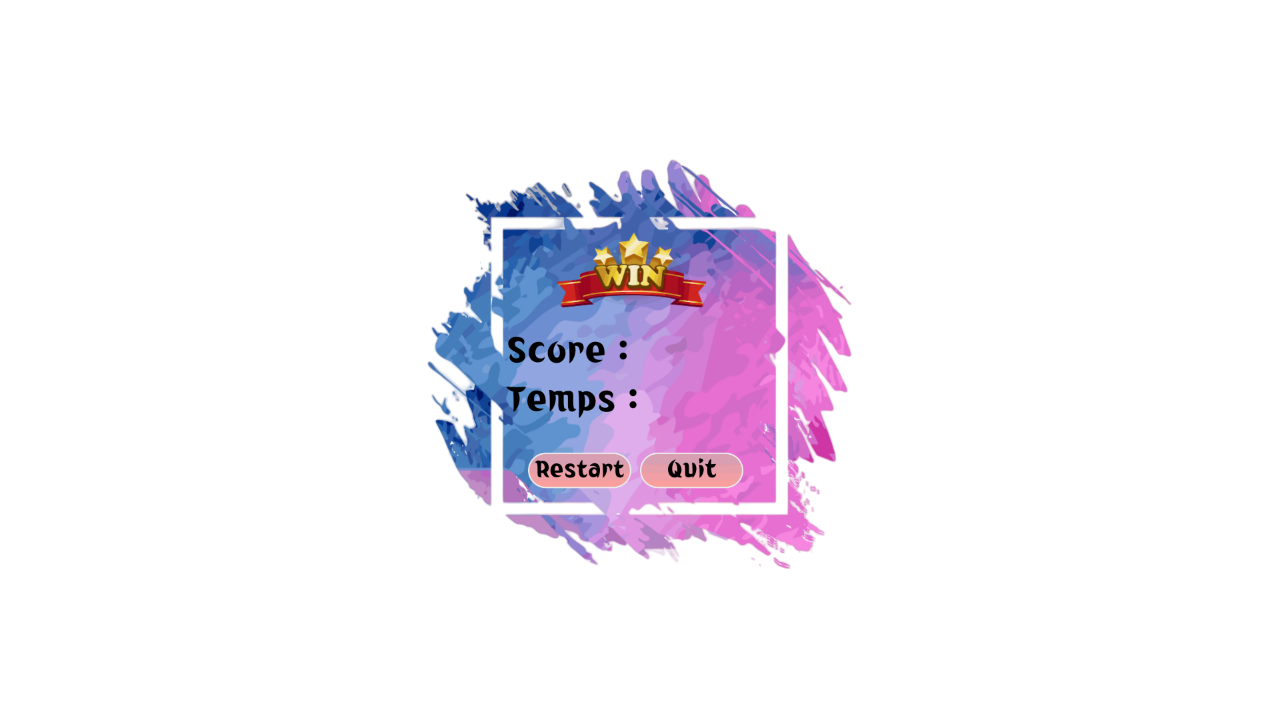
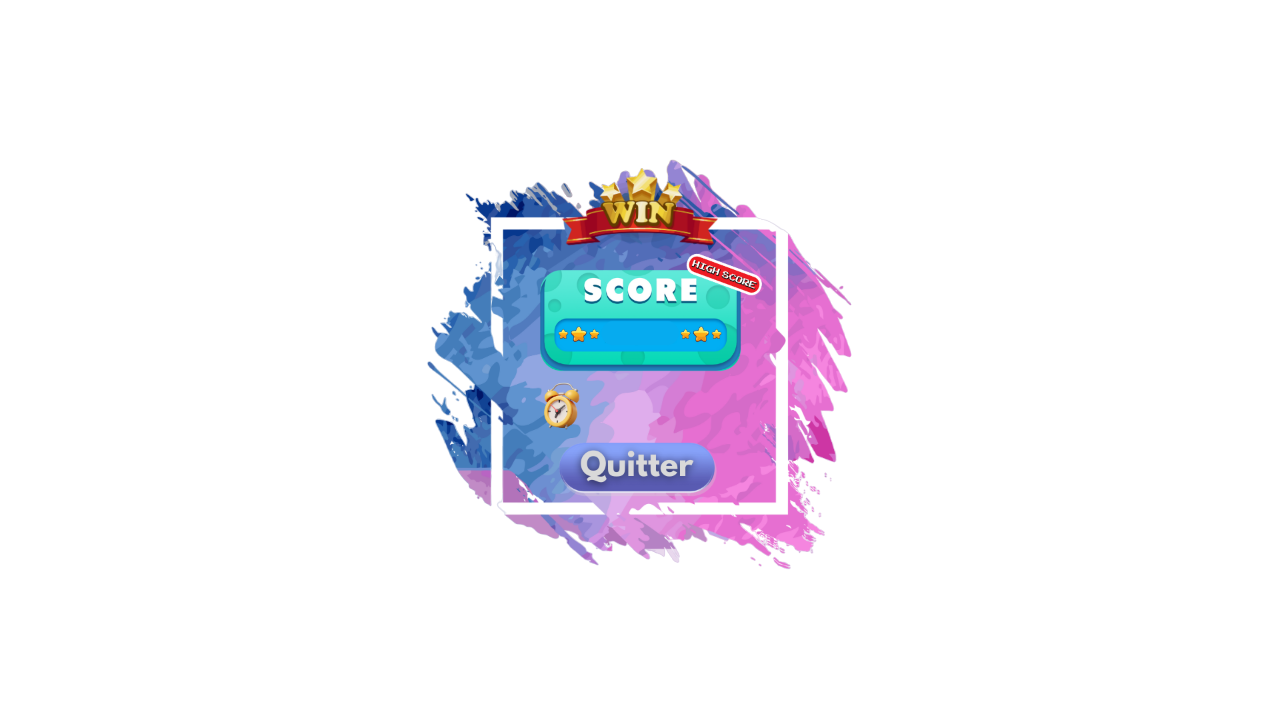
amélioration_écran_fin

Changed region(s): [[0.3438, 0.2444, 0.5938, 0.7028]]

diff --git a/Snake_1.0/fond.c b/Snake_1.0/fond.c
@@ -45,7 +45,7 @@ void dessinerScore() {
 
 void AfficherEcranDefaite() {
   int imageChargee;
-  imageChargee = ChargerImage("image/defaite.xpm", (LARGEUR_FENETRE - 1300) / 2, (HAUTEUR_FENETRE - 900) / 2, 0, 0, 1000, 1000);
+  imageChargee = ChargerImage("image/defaite.png", (LARGEUR_FENETRE - 1300) / 2, (HAUTEUR_FENETRE - 900) / 2, 0, 0, 1000, 1000);
     AfficherFenetre();
 }
 
@@ -55,7 +55,7 @@ void dessinerScoreFin() {
 
   /* Affichage du score en bas à droite */
   ChoisirCouleurDessin(CouleurParComposante(0, 0, 0)); /* Couleur du texte pour le score */
-  EcrireTexte(LARGEUR_FENETRE - 810, HAUTEUR_FENETRE - 590, scoreString, 2);
+  EcrireTexte(LARGEUR_FENETRE - 832, HAUTEUR_FENETRE - 605, scoreString, 2);
 }
 
 void dessinerTempsFinal(unsigned long tempsEcoule) {    
@@ -70,16 +70,6 @@ void dessinerTempsFinal(unsigned long tempsEcoule) {
   snprintf(tempsString, sizeof(tempsString), "%02lu:%02lu", minutes, secondes);  
   
   ChoisirCouleurDessin(CouleurParComposante(0, 0, 0)); /* Couleur du texte pour le temps final */
-  EcrireTexte(LARGEUR_FENETRE - 805, HAUTEUR_FENETRE - 540, tempsString, 2);
+  EcrireTexte(LARGEUR_FENETRE - 860, HAUTEUR_FENETRE - 530, tempsString, 2);
 }
 
-/*
-void SourisPosition();
-recupere les coordonnees de la souris dans la fenetre et les place dans _X et _Y
-
-int SourisCliquee();
-indique un clic de souris (1 si oui, 0 sinon), et recupere si c'est le cas la position au moment du clic dans _X et _Y 
-
-RemplirRectangle(680, 505, 100, 40); [bouton restart] 
-RemplirRectangle(790, 505, 100, 40); [bouton quit]  
-*/
